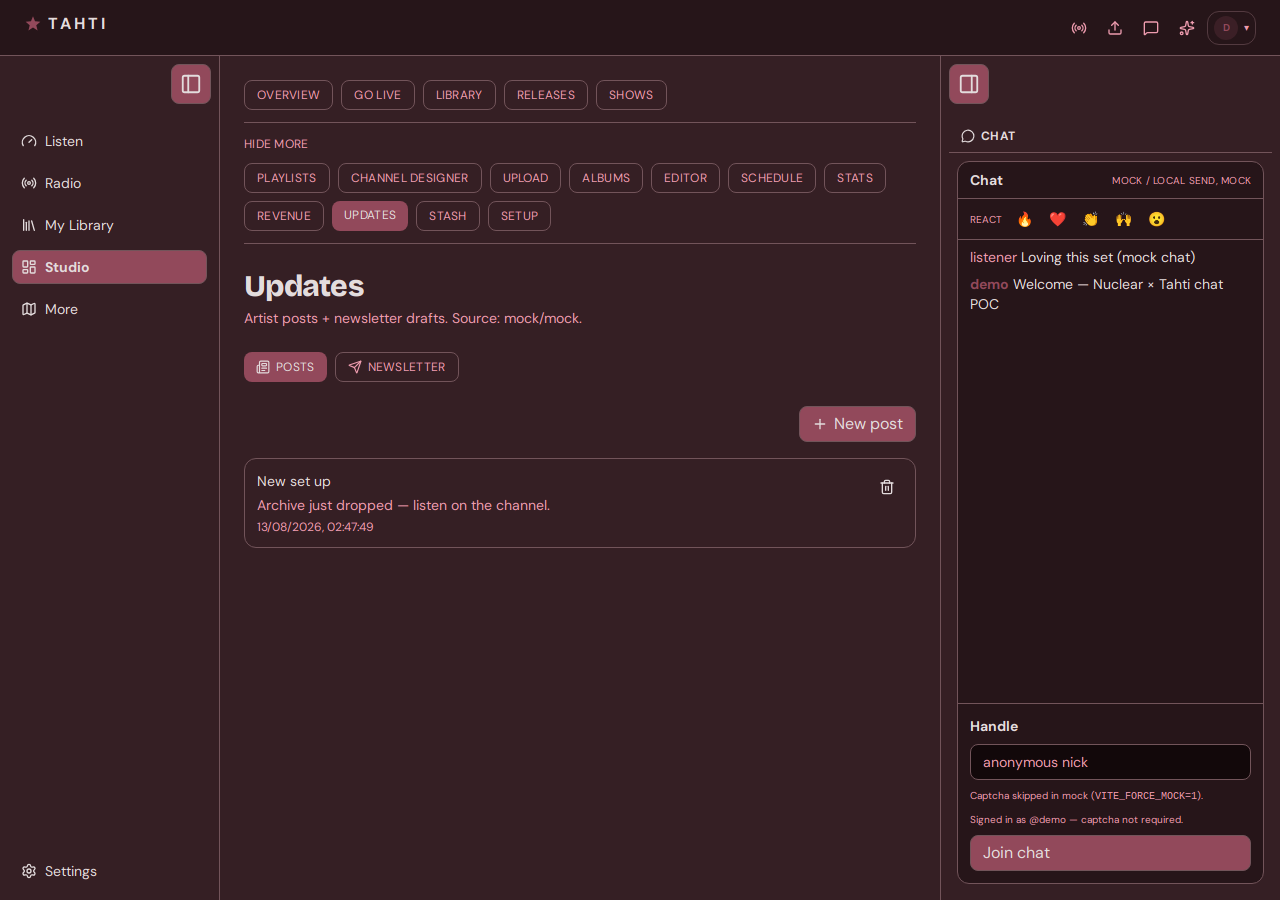
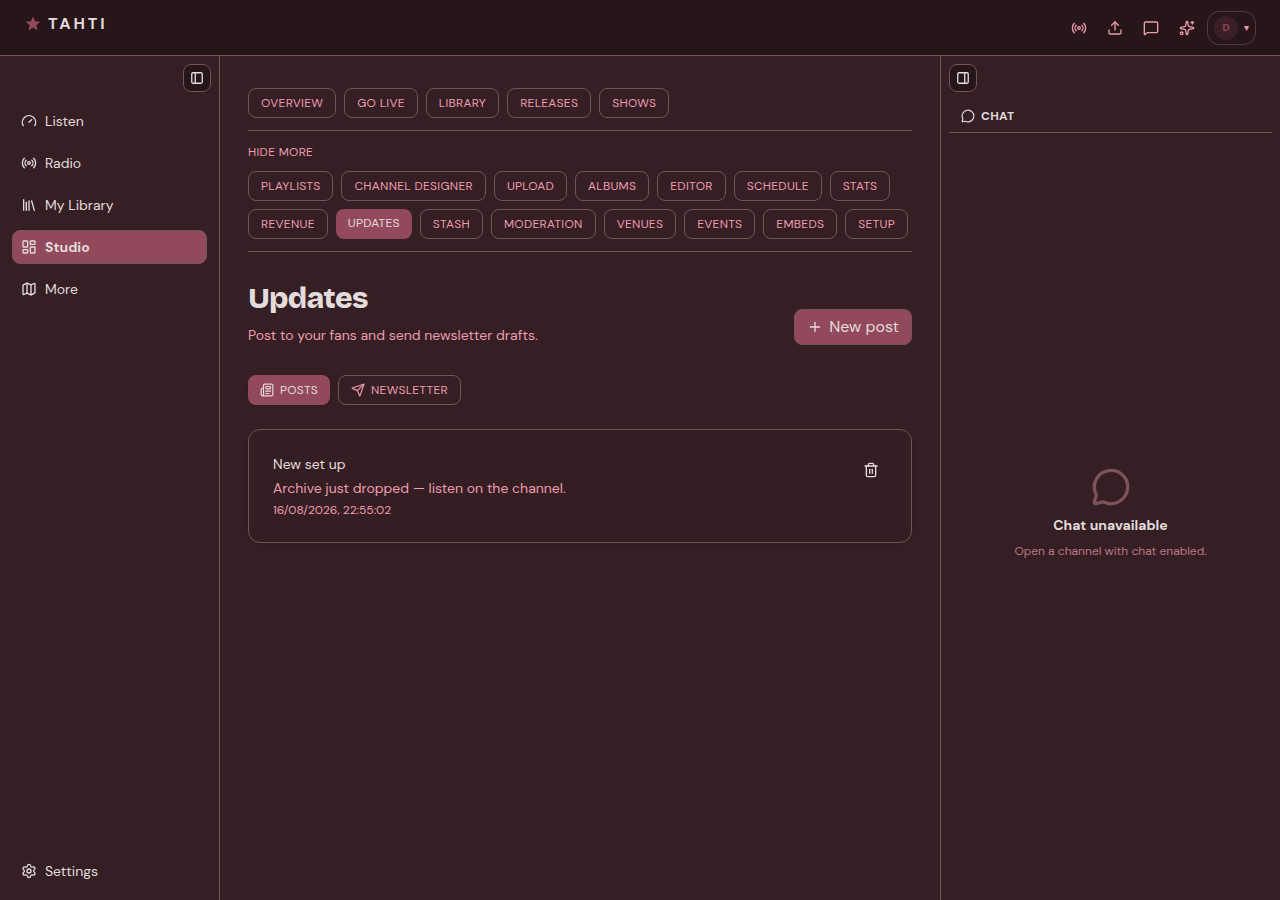
Redesign Studio Updates page with Nuclear panel shell
Bring the last un-styled studio page (posts + newsletter) to the
StudioPageHeader/StudioPanel shell used by Schedule and Releases:
tab-aware primary CTA, restyled tabs, and divide-y list rows.

Claude-Session: https://claude.ai/code/session_018vrS4tCejeHDXryaE1R75F

diff --git a/packages/tahti-web/src/views/studio/StudioUpdatesView.tsx b/packages/tahti-web/src/views/studio/StudioUpdatesView.tsx
@@ -15,6 +15,7 @@ import {
 } from '../../api/studio-extras';
 import { StudioGate } from '../../components/StudioGate';
 import { StudioNav } from '../../components/StudioNav';
+import { StudioPageHeader, StudioPanel } from '../../components/StudioPanel';
 
 type Tab = 'posts' | 'newsletter';
 
@@ -22,7 +23,6 @@ export function StudioUpdatesView() {
   const [tab, setTab] = useState<Tab>('posts');
   const [posts, setPosts] = useState<ArtistPost[]>([]);
   const [drafts, setDrafts] = useState<NewsletterDraft[]>([]);
-  const [source, setSource] = useState('…');
   const [msg, setMsg] = useState<string | null>(null);
 
   const [postOpen, setPostOpen] = useState(false);
@@ -39,7 +39,6 @@ export function StudioUpdatesView() {
       ([p, n]) => {
         setPosts(p.data);
         setDrafts(n.data);
-        setSource(`${p.meta.source}/${n.meta.source}`);
       },
     );
   };
@@ -65,18 +64,43 @@ export function StudioUpdatesView() {
 
   return (
     <StudioGate>
-      <div className="mx-auto flex max-w-3xl flex-col gap-6">
+      <div className="mx-auto flex max-w-3xl flex-col gap-6 px-1 py-2">
         <StudioNav current="/studio/updates" />
-        <div>
-          <h1 className="font-display text-3xl font-extrabold tracking-tight">
-            Updates
-          </h1>
-          <p className="text-foreground-secondary mt-1 text-sm">
-            Artist posts + newsletter drafts. Source: {source}.
-          </p>
-        </div>
+        <StudioPageHeader
+          title="Updates"
+          subtitle="Post to your fans and send newsletter drafts."
+          action={
+            tab === 'posts' ? (
+              <Button
+                size="sm"
+                onClick={() => {
+                  setMsg(null);
+                  setPostOpen(true);
+                }}
+                aria-label="New post"
+                title="New post"
+              >
+                <PlusIcon size={16} aria-hidden className="mr-1.5" />
+                New post
+              </Button>
+            ) : (
+              <Button
+                size="sm"
+                onClick={() => {
+                  setMsg(null);
+                  setDraftOpen(true);
+                }}
+                aria-label="New draft"
+                title="New draft"
+              >
+                <PlusIcon size={16} aria-hidden className="mr-1.5" />
+                New draft
+              </Button>
+            )
+          }
+        />
 
-        <nav className="flex flex-wrap gap-2">
+        <nav className="flex flex-wrap gap-2" role="tablist">
           {(
             [
               { id: 'posts' as const, label: 'Posts', icon: NewspaperIcon },
@@ -90,10 +114,12 @@ export function StudioUpdatesView() {
             <button
               key={t.id}
               type="button"
+              role="tab"
+              aria-selected={tab === t.id}
               onClick={() => setTab(t.id)}
               className={`inline-flex items-center gap-1.5 rounded-md px-3 py-1.5 text-xs font-medium tracking-wide uppercase ${
                 tab === t.id
-                  ? 'bg-primary text-foreground'
+                  ? 'bg-primary text-foreground shadow-sm'
                   : 'border-border text-foreground-secondary hover:text-foreground border'
               }`}
             >
@@ -103,162 +129,132 @@ export function StudioUpdatesView() {
           ))}
         </nav>
 
-        {msg && <p className="text-sm">{msg}</p>}
+        {msg && (
+          <p className="text-foreground-secondary text-sm" role="status">
+            {msg}
+          </p>
+        )}
 
         {tab === 'posts' && (
-          <div className="flex flex-col gap-4">
-            <div className="flex justify-end">
-              <Button
-                size="sm"
-                onClick={() => {
-                  setMsg(null);
-                  setPostOpen(true);
-                }}
-              >
-                <PlusIcon size={16} aria-hidden className="mr-1.5" />
-                New post
-              </Button>
-            </div>
-            <ul className="flex flex-col gap-2">
-              {posts.length === 0 ? (
-                <li className="border-border rounded-lg border px-4 py-8 text-center">
-                  <p className="text-foreground-secondary text-sm">
-                    No posts yet.
-                  </p>
-                  <Button
-                    size="sm"
-                    className="mt-3"
-                    onClick={() => setPostOpen(true)}
-                  >
+          <StudioPanel>
+            {posts.length === 0 ? (
+              <div className="flex flex-col gap-3 py-4 text-center">
+                <p className="text-foreground-secondary text-sm">
+                  No posts yet.
+                </p>
+                <div>
+                  <Button size="sm" onClick={() => setPostOpen(true)}>
                     <PlusIcon size={16} aria-hidden className="mr-1.5" />
                     New post
                   </Button>
-                </li>
-              ) : (
-                posts.map((p) => (
+                </div>
+              </div>
+            ) : (
+              <ul className="divide-border divide-y">
+                {posts.map((p) => (
                   <li
                     key={p.id}
-                    className="border-border rounded-lg border px-3 py-3"
+                    className="flex flex-wrap items-start justify-between gap-2 py-3 text-sm first:pt-0 last:pb-0"
                   >
-                    <div className="flex flex-wrap items-start justify-between gap-2">
-                      <div>
-                        <div className="text-sm font-medium">
-                          {p.title || 'Untitled'}
-                        </div>
-                        <p className="text-foreground-secondary mt-1 text-sm whitespace-pre-wrap">
-                          {p.body}
+                    <div className="min-w-0 flex-1">
+                      <div className="font-medium">{p.title || 'Untitled'}</div>
+                      <p className="text-foreground-secondary mt-1 whitespace-pre-wrap">
+                        {p.body}
+                      </p>
+                      <p className="text-foreground-secondary mt-1 text-xs">
+                        {new Date(p.publishAt).toLocaleString()}
+                      </p>
+                    </div>
+                    <Button
+                      size="icon-sm"
+                      variant="text"
+                      aria-label="Delete post"
+                      title="Delete"
+                      onClick={() => {
+                        void deleteArtistPost(p.id).then((r) => {
+                          if (!r.ok) {
+                            setMsg(r.error);
+                          } else {
+                            reload();
+                          }
+                        });
+                      }}
+                    >
+                      <Trash2Icon size={16} aria-hidden />
+                    </Button>
+                  </li>
+                ))}
+              </ul>
+            )}
+          </StudioPanel>
+        )}
+
+        {tab === 'newsletter' && (
+          <StudioPanel>
+            {drafts.length === 0 ? (
+              <div className="flex flex-col gap-3 py-4 text-center">
+                <p className="text-foreground-secondary text-sm">
+                  No drafts yet.
+                </p>
+                <div>
+                  <Button size="sm" onClick={() => setDraftOpen(true)}>
+                    <PlusIcon size={16} aria-hidden className="mr-1.5" />
+                    New draft
+                  </Button>
+                </div>
+              </div>
+            ) : (
+              <ul className="divide-border divide-y">
+                {drafts.map((d) => (
+                  <li
+                    key={d.id}
+                    className="flex flex-wrap items-start justify-between gap-2 py-3 text-sm first:pt-0 last:pb-0"
+                  >
+                    <div className="min-w-0 flex-1">
+                      <div className="font-medium">{d.subject}</div>
+                      {d.bodyMd && (
+                        <p className="text-foreground-secondary mt-1 whitespace-pre-wrap">
+                          {d.bodyMd}
                         </p>
-                        <p className="text-foreground-secondary mt-1 text-xs">
-                          {new Date(p.publishAt).toLocaleString()}
-                        </p>
-                      </div>
+                      )}
+                      <p className="text-foreground-secondary mt-1 text-xs">
+                        {d.subscribersOnly ? 'Fans only' : 'All subscribers'}
+                        {d.state ? `, ${d.state}` : ''}
+                        {d.sentAt
+                          ? `, sent ${new Date(d.sentAt).toLocaleString()}`
+                          : ', draft'}
+                      </p>
+                    </div>
+                    {(!d.state || d.state === 'DRAFT') && !d.sentAt && (
                       <Button
-                        size="icon-sm"
-                        variant="text"
-                        aria-label="Delete post"
-                        title="Delete"
+                        size="sm"
                         onClick={() => {
-                          void deleteArtistPost(p.id).then((r) => {
+                          void sendNewsletterDraft(
+                            d.id,
+                            d.subscribersOnly ? 'fans' : 'all',
+                          ).then((r) => {
                             if (!r.ok) {
                               setMsg(r.error);
                             } else {
+                              setMsg(
+                                r.queued != null
+                                  ? `Queued send to ${r.queued} subscribers.`
+                                  : 'Send queued.',
+                              );
                               reload();
                             }
                           });
                         }}
                       >
-                        <Trash2Icon size={16} aria-hidden />
+                        <SendIcon size={16} aria-hidden className="mr-1.5" />
+                        Send
                       </Button>
-                    </div>
+                    )}
                   </li>
-                ))
-              )}
-            </ul>
-          </div>
-        )}
-
-        {tab === 'newsletter' && (
-          <div className="flex flex-col gap-4">
-            <div className="flex justify-end">
-              <Button
-                size="sm"
-                onClick={() => {
-                  setMsg(null);
-                  setDraftOpen(true);
-                }}
-              >
-                <PlusIcon size={16} aria-hidden className="mr-1.5" />
-                New draft
-              </Button>
-            </div>
-            <ul className="flex flex-col gap-2">
-              {drafts.length === 0 ? (
-                <li className="border-border rounded-lg border px-4 py-8 text-center">
-                  <p className="text-foreground-secondary text-sm">
-                    No drafts yet.
-                  </p>
-                  <Button
-                    size="sm"
-                    className="mt-3"
-                    onClick={() => setDraftOpen(true)}
-                  >
-                    <PlusIcon size={16} aria-hidden className="mr-1.5" />
-                    New draft
-                  </Button>
-                </li>
-              ) : (
-                drafts.map((d) => (
-                  <li
-                    key={d.id}
-                    className="border-border rounded-lg border px-3 py-3 text-sm"
-                  >
-                    <div className="flex flex-wrap items-start justify-between gap-2">
-                      <div>
-                        <div className="font-medium">{d.subject}</div>
-                        {d.bodyMd && (
-                          <p className="text-foreground-secondary mt-1 whitespace-pre-wrap">
-                            {d.bodyMd}
-                          </p>
-                        )}
-                        <p className="text-foreground-secondary mt-1 text-xs">
-                          {d.subscribersOnly ? 'Fans only' : 'All subscribers'}
-                          {d.state ? `, ${d.state}` : ''}
-                          {d.sentAt
-                            ? `, sent ${new Date(d.sentAt).toLocaleString()}`
-                            : ', draft'}
-                        </p>
-                      </div>
-                      {(!d.state || d.state === 'DRAFT') && !d.sentAt && (
-                        <Button
-                          size="sm"
-                          onClick={() => {
-                            void sendNewsletterDraft(
-                              d.id,
-                              d.subscribersOnly ? 'fans' : 'all',
-                            ).then((r) => {
-                              if (!r.ok) {
-                                setMsg(r.error);
-                              } else {
-                                setMsg(
-                                  r.queued != null
-                                    ? `Queued send to ${r.queued} subscribers.`
-                                    : 'Send queued (mock or API).',
-                                );
-                                reload();
-                              }
-                            });
-                          }}
-                        >
-                          <SendIcon size={16} aria-hidden className="mr-1.5" />
-                          Send
-                        </Button>
-                      )}
-                    </div>
-                  </li>
-                ))
-              )}
-            </ul>
-          </div>
+                ))}
+              </ul>
+            )}
+          </StudioPanel>
         )}
 
         <Dialog.Root isOpen={postOpen} onClose={closePost}>

diff --git a/packages/tahti-web/UI-REDESIGN-WORKLOG.md b/packages/tahti-web/UI-REDESIGN-WORKLOG.md
@@ -30,7 +30,7 @@ Workflow rules: one page at a time; do not advance until user approves.
 | 16 | Shows | `/studio/shows` | **in-review** | `docs/redesign-shots/studio-shows-v1.png` |
 | 17 | Show detail / episode review | `/studio/shows/$id`, `…/episodes/$episodeId` | **in-review** | |
 | 18 | Playlists | `/studio/playlists`, `…/$slug` | **in-review** | `docs/redesign-shots/studio-playlists-v1.png` |
-| 19 | Updates / newsletter | `/studio/updates` | pending | |
+| 19 | Updates / newsletter | `/studio/updates` | **approved** | `docs/redesign-shots/studio-updates-v1.png` |
 | 20 | Revenue / Connect | `/studio/revenue` | pending | |
 | 21 | Stash | `/studio/stash` | pending | |
 | 22 | Sources hub | `/sources` | pending | |
@@ -264,4 +264,20 @@ Port into Nuclear admin shell later. Inventory from prod `admin-nav`:
 **Screenshots:** `listen-artist-rich-v1.png` (new — enriched artist profile), `studio-events-v1.png` (new), `map-more-v1.png` (new — export button), refreshed `listen-home-v1`, `listen-radio-v1`, `listen-artist-v1`, `studio-shows-v1`, and the rest of the atlas set against the new mock data.
 
 **Status:** in-review — awaiting comment or `approved`.
+
+### 2026-08-16 — Page 19 Updates / newsletter v1 (`in-review`)
+
+**Goal:** Bring the last un-styled studio page to the StudioPageHeader/StudioPanel shell used by Schedule and Releases; one primary action per tab.
+
+**Changes:**
+
+- `StudioPageHeader` with tab-aware primary CTA (**New post** / **New draft**) instead of a right-aligned button row
+- Tabs restyled to match Channel designer (`shadow-sm` active state, `role="tablist"`/`role="tab"`)
+- Posts and drafts lists moved into `StudioPanel` with `divide-y` rows (was ad-hoc bordered `<li>` cards), matching Releases
+- Dropped the "Source: mock/live" jargon from the subtitle
+- No behavior changes — same create/delete/send handlers and dialogs
+
+**Screenshots:** `docs/redesign-shots/studio-updates-v1.png` (Posts tab), `docs/redesign-shots/studio-updates-newsletter-v1.png` (Newsletter tab)
+
+**Status:** approved.
 
